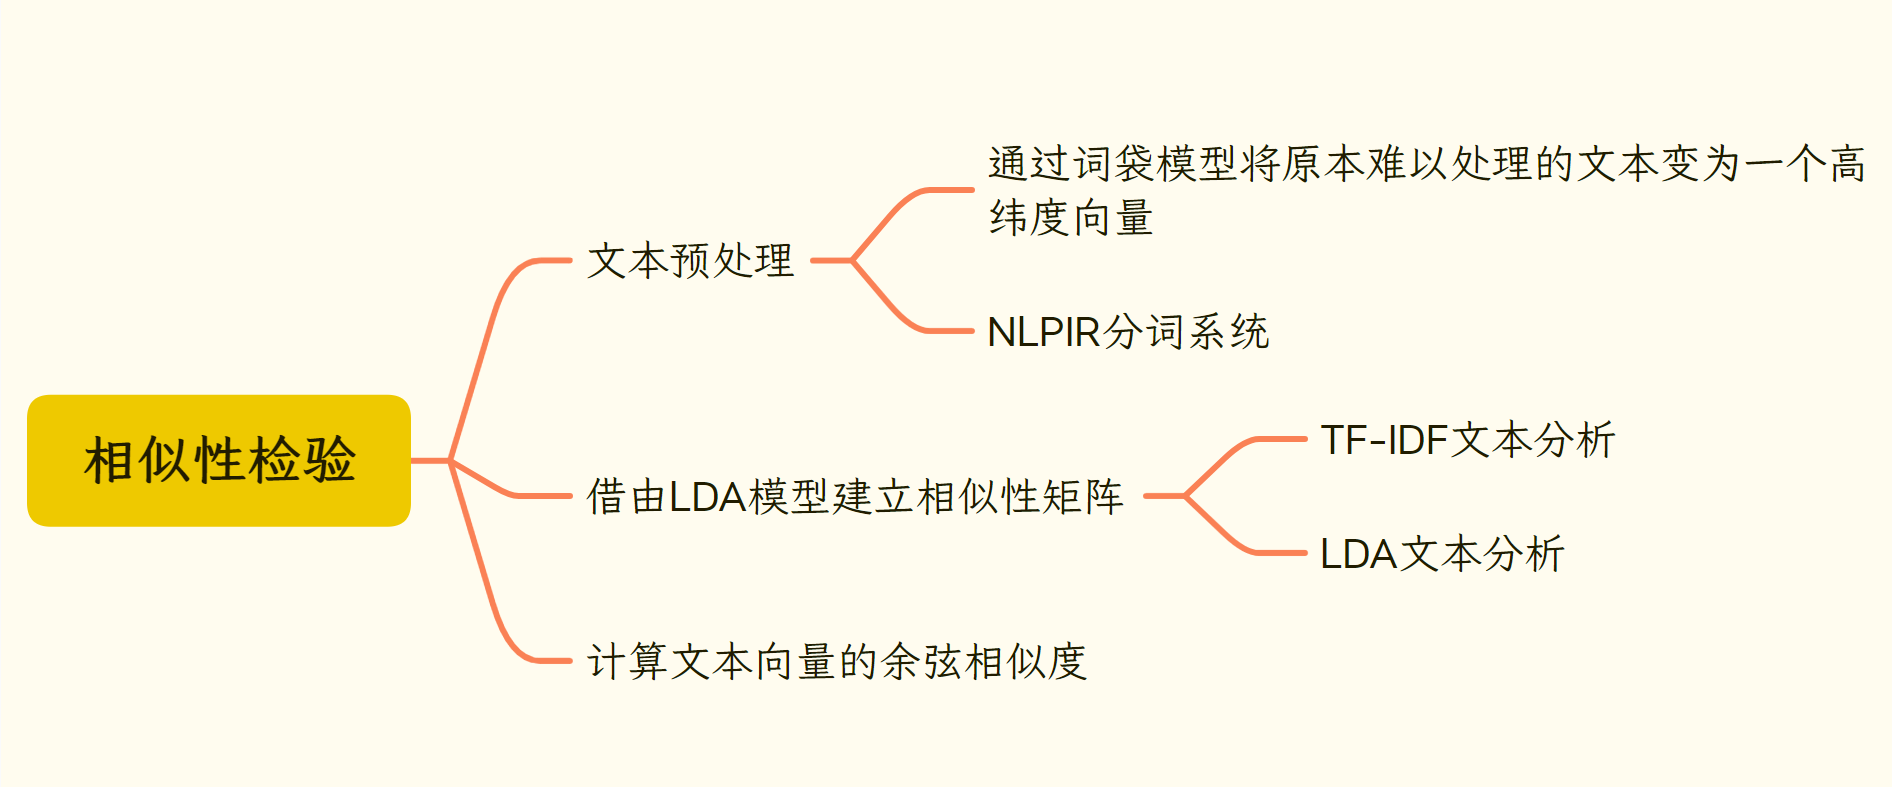
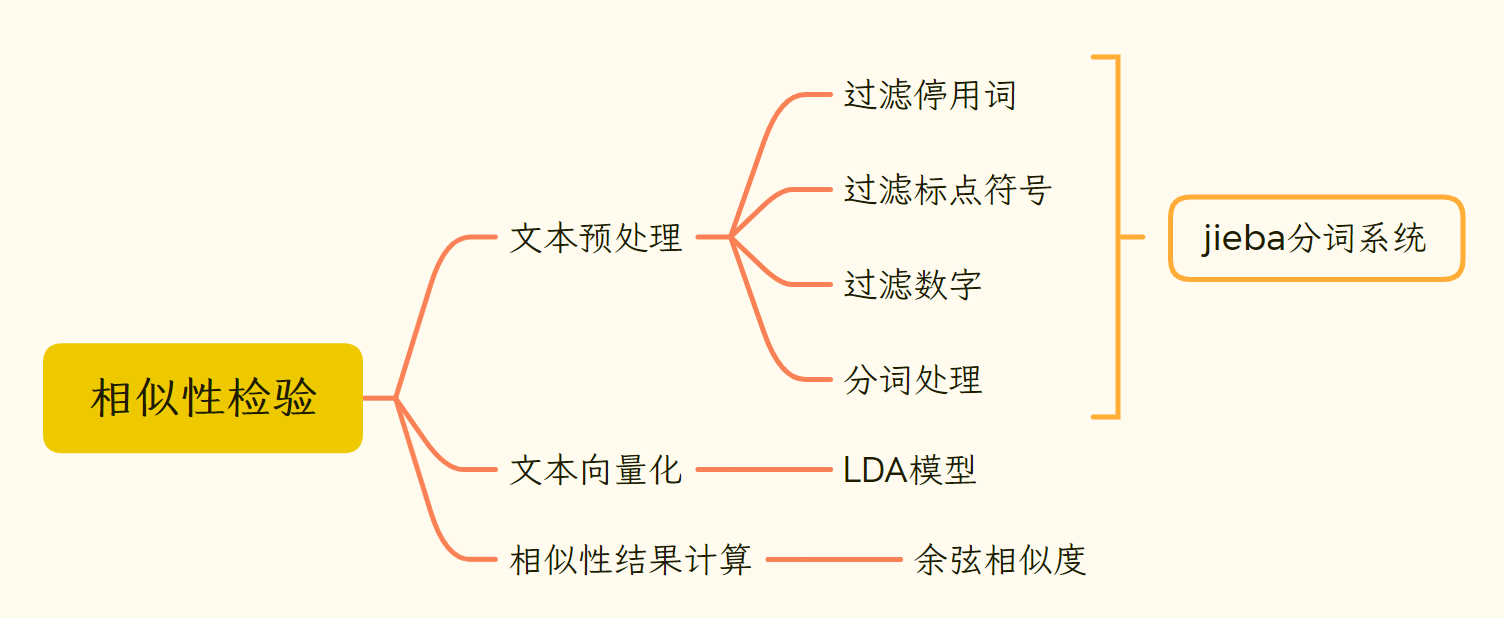
完善

Changed region(s): [[0.0, 0.0615, 1.0, 0.9531], [0.7812, 0.3074, 0.9688, 0.3382]]

diff --git a/src/C-Solution.tex b/src/C-Solution.tex
@@ -2,9 +2,9 @@
 
 \subsection{相似性度量模型}
 
-\begin{figure}[h]
+\begin{figure}[htbp]
     \centering
-    \includegraphics[scale=0.2]{res/figure040956.png}
+    \includegraphics[scale=0.25]{res/figure040956.png}
     \caption{相似度量模型思维导图}
 \end{figure}
 
@@ -44,16 +44,16 @@
 
 \subsubsection{文本预处理}
 
-首先需要对题目文本进行分词处理，以好通过词袋模型的方式将题目文本进行向量化，进行进一步的研究。因本文研究的题目大多处于中文语言环境下，需先对题目进行分词处理。本文为了研究方便，使用的是被广泛使用的开源中文分词工具jieba。另外也可以使用NLPIR分词系统达到相同效果。NLPIR分词系统是由中国科学技术大学自然语言处理与社会人文计算实验室开发的一款中文自然语言处理工具。它是基于统计和规则两种方法相结合的分词系统，能够对中文文本进行精准的分词和词性标注，完美契合本文的研究需要。
-
-在分词处理的过程中，还需要分离并忽略标点符号、数字、停用词等词语的影响。详细的处理操作可以参考周萍老师在《语义分析及相似性度量方法》\cite{ZhouJiYuYuYiFenXiDeWenBenXiangSiXingDuLiangYanJiuJiYingYong2017}研究中总结的预处理流程，如\ref{photo041944}。但本文简化了处理流程，仅对分词结果进行了简单的标点符号排除与数字排除，以加快研究进程。
-
 \begin{figure}[htbp]
     \centering
     \label{photo041944}
     \includegraphics[width=6cm,height=10cm]{res/Text preprocessing process.png}
     \caption{文本预处理流程图}
 \end{figure} 
+
+首先需要对题目文本进行分词处理，以好通过词袋模型的方式将题目文本进行向量化，进行进一步的研究。因本文研究的题目大多处于中文语言环境下，需先对题目进行分词处理。本文为了研究方便，使用的是被广泛使用的开源中文分词工具jieba。另外也可以使用NLPIR分词系统达到相同效果。NLPIR分词系统是由中国科学技术大学自然语言处理与社会人文计算实验室开发的一款中文自然语言处理工具。它是基于统计和规则两种方法相结合的分词系统，能够对中文文本进行精准的分词和词性标注，完美契合本文的研究需要。
+
+在分词处理的过程中，还需要分离并忽略标点符号、数字、停用词等词语的影响。详细的处理操作可以参考周萍老师在《语义分析及相似性度量方法》\cite{ZhouJiYuYuYiFenXiDeWenBenXiangSiXingDuLiangYanJiuJiYingYong2017}研究中总结的预处理流程，如\ref{photo041944}。但本文简化了处理流程，仅对分词结果进行了简单的标点符号排除与数字排除，以加快研究进程。
 
 在这里也给出一段进行文字预处理的Python代码以作参考：
 
@@ -195,13 +195,17 @@ $$S_{level} = \{1, 2, 3, 4, 5\}$$
 
 因此，对于所有的$i \geq 1, 1 \leq j \leq 4$，有：
 
-$$M_{diff}(i, j)\in S_{level}$$
+\begin{equation}
+M_{diff}(i, j)\in S_{level}
+\end{equation}
 
 由于题目难度得分矩阵不确定，并且对于不专业的人来说很难得到准确结果，考虑让多个教师合作完成。
 
 假定有$n$个教师分别完成各自的题目难度得分矩阵，\textbf{所有教师的题目难度矩阵}为一个三维矩阵$M_{diff}'$，其中$M_{diff}'(i, j, k)$表示第$k$个教师认为第$i$题第$j$个因素的得分，且对于所有的$i \geq 1, 1 \leq j \leq 4, 1 \leq k \leq n$，满足：
 
-$$M_{diff}'(i, j, k)\in S_{level}$$
+\begin{equation}
+M_{diff}'(i, j, k)\in S_{level}
+\end{equation}
 
 得到每个教师的题目难度得分矩阵后，分别对每一题每个因素求教师数量的平均值，设为最终的题目难度得分矩阵，即：
 
@@ -260,7 +264,14 @@ L_D(i) =
 
 \subsubsection{模型应用过程}
 
-为了保证模型的复用性，这里给出评价的步骤。通过对前文中模型的应用，对附件1中的题目进行分类。
+为了保证模型的复用性，这里给出评价的步骤。通过对前文中模型的应用，对附件1中的题目进行分类（如图\ref{figure041640}）。
+
+\begin{figure}[h]
+    \centering
+    \includegraphics[scale=0.35]{res/figure041640.png}
+    \caption{分类步骤}
+    \label{figure041640}
+\end{figure}
 
 \begin{enumerate}
     \item 文本预处理。格式化已有的数据。让代码1中的程序可以识别题库。处理完成以后，导入到MySQL数据库中；
@@ -268,46 +279,43 @@ L_D(i) =
     \item 计算余弦相似度。得到各个题目之间的相似度矩阵。
 \end{enumerate}
 
-分类部分结果如表\ref{talbe041618}所示意（完整分类结果见\textbf{附件-分类.xlsx}）。
+分类部分结果如表\ref{talbe041618}所示意（完整分类结果见\textbf{附件-题目分类.xlsx}）。
 
 \begin{table}[h]
     \label{talbe041618}
     \caption{分类结果}
     \centering
-    \begin{tabular}{@{}cccclc@{}}
+    \begin{tabular}{@{}cccccc@{}}
         \toprule
-        一    & 二    & 三    & 四                    & 五    & ……                   \\ \midrule
+        \quad \quad 一 \quad \quad   & \quad \quad 二 \quad \quad  & \quad \quad 三 \quad \quad   & \quad \quad 四 \quad \quad                  & \quad \quad 五 \quad \quad    & \quad \quad …… \quad \quad                  \\ \midrule
         P001 & P002 & P007 & P015                 & P023 &                      \\
         P005 & P003 & P010 & P071                 & P024 &                      \\
         P008 & P004 & P014 & P089                 & P028 &                      \\
         P009 & P006 & P026 & P097                 & P032 &                      \\
-        P016 & P011 & P034 &                      & P043 &                      \\
-        P019 & P012 & P040 &                      & P050 &                      \\
-        P021 & P013 & P044 &                      & P054 &                      \\
-        P025 & P018 & P047 &                      & P068 &                      \\
-        P027 & P020 & P052 &                      & P075 &                      \\
-        P029 & P022 & P053 &                      & P081 &                      \\
-        P033 & P030 & P055 &                      & P084 &                      \\
-        P036 & P035 & P065 &                      & P087 &                      \\
-        P038 & P037 & P080 &                      & P088 &                      \\
-        P039 & P046 & P083 &                      &      &                      \\
-        P041 & P049 & P085 &                      &      &                      \\
-        P048 & P051 & P091 & \multicolumn{1}{l}{} &      & \multicolumn{1}{l}{} \\
+        P016 & P011 & P034 &  -                   & P043 &                      \\
+        P019 & P012 & P040 &  -                   & P050 &                      \\
+        P021 & P013 & P044 &  -                   & P054 &                      \\
+        P025 & P018 & P047 &  -                   & P068 &                      \\
+        P027 & P020 & P052 &  -                   & P075 &                      \\
+        P029 & P022 & P053 &  -                   & P081 &                      \\
+        P033 & P030 & P055 &  -                   & P084 &                      \\
+        P036 & P035 & P065 &  -                   & P087 &                      \\
+        P038 & P037 & P080 &  -                   & P088 &                      \\
+        P039 & P046 & P083 &  -                   & -    &                      \\
+        P041 & P049 & P085 &  -                   & -    &                      \\
+        P048 & P051 & P091 & \multicolumn{1}{l}{} &     & \multicolumn{1}{l}{} \\
         \multicolumn{6}{c}{……}                                                  \\ \bottomrule
         \end{tabular}
 \end{table}
 
 实际上，对于该种分类方法而言，越大的题库就有着越好的分类效果。更大的题库意味着更大的材料库，如此巨大的材料库对模型的意义就是能够拟合出更加合理、更加符合现实的结论。
 
-\begin{figure}[h]
-    \centering
-    \includegraphics[scale=0.3]{res/figure041640.png}
-    \caption{分类步骤}
-\end{figure}
 
 \subsubsection{对于大规模题库}
 
-改方法的复杂度主要集中在文本预处理和文本分词向量化这两个步骤中。对于前者，在做出优化判断之前，需要优质的数据集，如果数据集不够优质，那么前期就要花费大量的时间整合原文本，所以优质的数据集可以节省大量的时间。对于后者的文本分词向量化，在这个步骤中，
+该方法的复杂度主要集中在文本预处理和文本分词向量化这两个步骤中。对于前者，在做出优化判断之前，需要优质的数据集，如果数据集不够优质，那么前期就要花费大量的时间整合原文本，所以优质的数据集可以节省大量的时间。
+
+综上所述，\textbf{影响该算法复杂的因素主要是原文的质量和数据处理时的技巧相关，在一定程度上，可以用于大题库中。}
 
 \subsection{难度评估模型的应用举例——对附件2的难度分析}
 
@@ -335,7 +343,7 @@ L_D(i) =
     \end{tabular}
 \end{table}
 
-其他数据见“题目难度系数计算.xlsx”文件中的“最终结果”。
+其他数据见“附件-题目难度系数计算.zip”文件中的“最终结果”。
 
 \subsubsection{寻找题目难度相似的题目}
 
@@ -375,7 +383,7 @@ L_D(i) =
 
 由于$m$的值越大，参与评估的教师人数越多，得到的结果越精确。即对于更大规模的题库时，如果对精度要求不高，则可以视为适用于更大规模的题库；但是对结果精度要求高的话，本模型将会花费较长的时间求得结果。
 
-总之，如果对结果精度要求不高，则可以适用于更大规模的题库；否则将难以适应并需要花费较长时间获取结果。
+总之，\textbf{如果对结果精度要求不高，则可以适用于更大规模的题库；否则将难以适应并需要花费较长时间获取结果。}
 
 % ============================================================
 %
@@ -431,5 +439,5 @@ L_D(i) =
 
 \begin{itemize}
     \item 用AI评价代替人工评价。这样做有两个好处，首先AI评价相比于人工评价更加客观，其次AI评价相比于人工评价成本更低，效率更高；
-    \item 寻找
+    \item 寻找一种更为合理的小学知识体系，以这个体系为基础，再进行题目难度度量。
 \end{itemize}

diff --git a/res/participle.py b/res/participle.py
@@ -1,27 +1,21 @@
 def chinese_word_cut(mytext):
     jieba.load_userdict(dic_file)
     jieba.initialize()
-    try:
-        stopword_list = open(stop_file,encoding ='utf-8')
-    except:
-        stopword_list = []
-        print("error in stop_file")
+    stopword_list = open(stop_file,encoding ='utf-8')
     stop_list = []
     flag_list = ['n','nz','vn']
     for line in stopword_list:
         line = re.sub(u'\n|\\r', '', line)
         stop_list.append(line)
-    
     word_list = []
-    #jieba分词
     seg_list = psg.cut(mytext)
     for seg_word in seg_list:
         word = re.sub(u'[^\u4e00-\u9fa5]','',seg_word.word)
         find = 0
         for stop_word in stop_list:
             if stop_word == word or len(word)<2:
-                    find = 1
-                    break
+                find = 1
+                break
         if find == 0 and seg_word.flag in flag_list:
             word_list.append(word)      
     return (" ").join(word_list)
